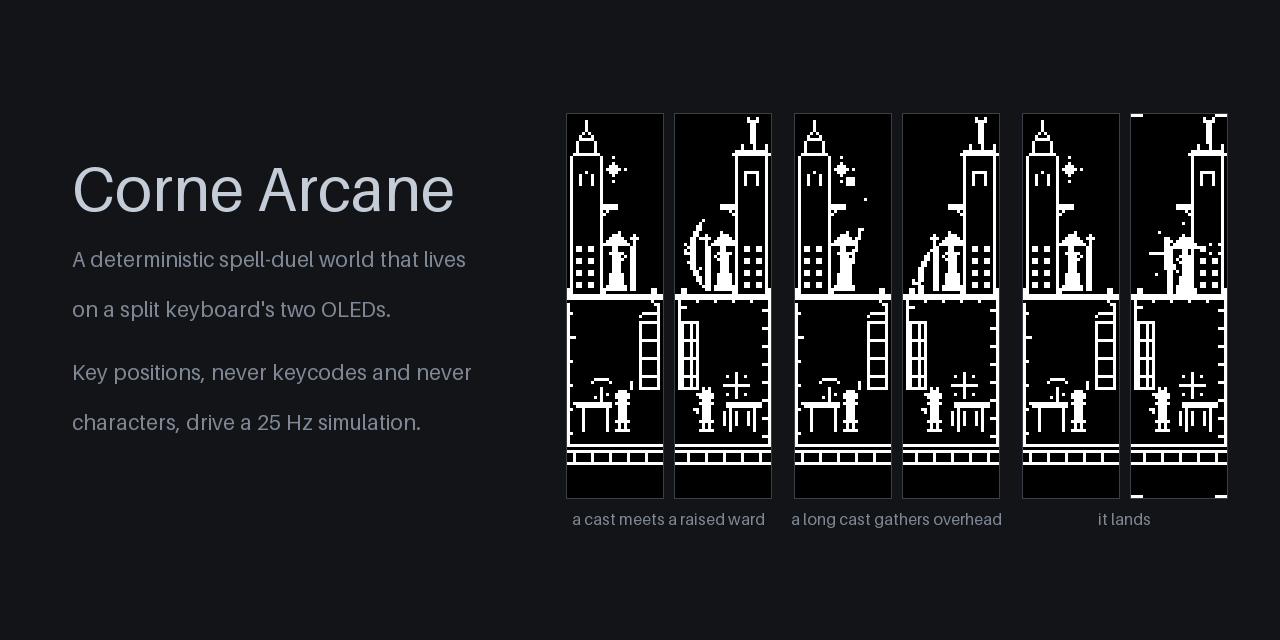
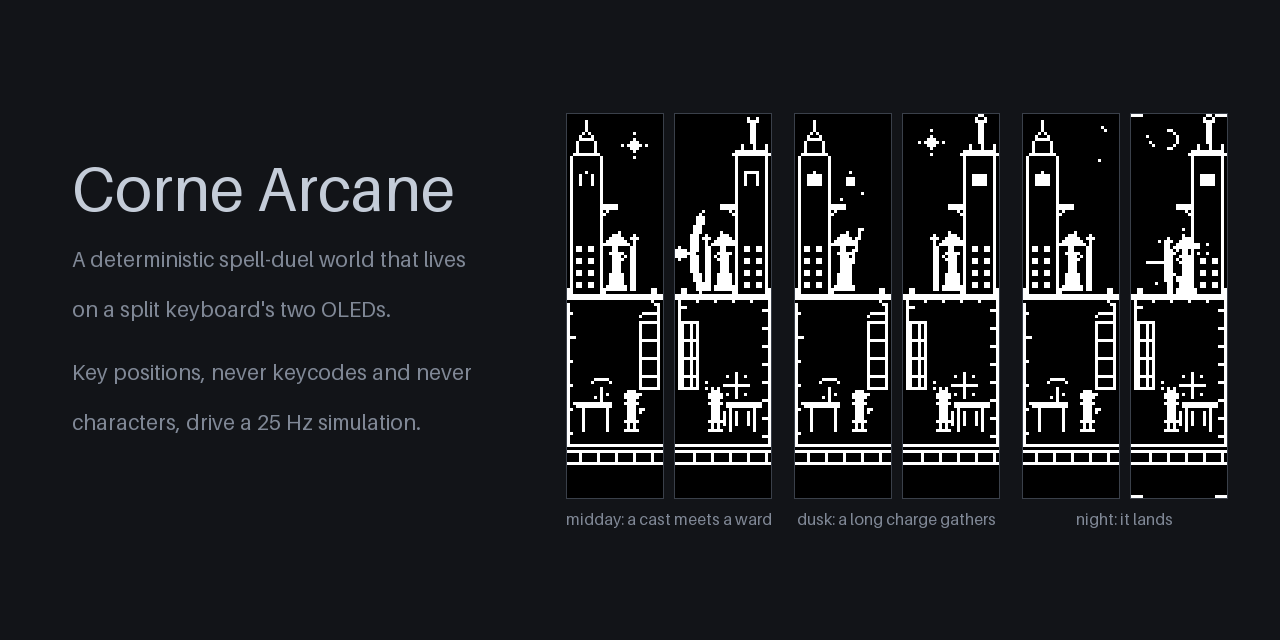
test(firmware): pin the combat states the catalog left uncovered
The visual catalog matrices each vary one family at a time, so several legal
worlds the renderer already draws had no scene at all. Thirty-seven cases close
the gaps that were reachable without new mechanics.

Health rendered at three pip counts of nine and only ever symmetric, which is
not enough to settle the health-pip question the two candidate images encode.
The ladder is now every legal count, stopping one short of full health because
the initialised world is already reviewed as the dawn idle frame, plus three
asymmetric pairs.

Wind-up had one frame per form and no progression, so the charge indicator's
range was unpinned. Both wizards acting at once had no scene at all, though one
spell per side is legal. Two fields at once had none either, though there are
exactly two slots. The lifecycle arc existed only on the left half, and a spell
arriving at a downed wizard drew an outcome nothing reviewed.

Every combat scene carried the default dawn sky, so the composition of a duel
over the celestial arc was pinned at one hour and one moment. Three scenes now
place a different duel state under each remaining phase, which is also what
lets the social preview show a duel at three points in its day.

Two findings came from the uniqueness gate rejecting scenes that looked
distinct but were not. Status intensity only changes what is drawn for BURNING;
FROZEN, DISRUPTED and MARKED are pixel identical at every level, so pinning
[…]

diff --git a/firmware/sim_test/visual_catalog.c b/firmware/sim_test/visual_catalog.c
@@ -17,7 +17,7 @@ typedef struct {
     char name[48];
     uint64_t hash;
 } visual_case_t;
-static visual_case_t cases[640];
+static visual_case_t cases[768];
 static size_t ncases;
 
 static uint64_t fnv1a(uint64_t hash, const void *data, size_t size) {
@@ -652,12 +652,28 @@ static void build_catalog(void) {
     cross.diag_overflow = 3u;
     add_render_case_diagnostics("cross_event_stale_diagnostics", &cross, 13u);
 
-    static const uint8_t hp_cases[] = {0, 1, 6};
-    for (size_t i = 0; i < sizeof hp_cases; i++) {
+    /* Every legal pip count, so a change to SIM_MAX_HP re-reviews the whole
+     * ladder instead of three samples of it. The health-pip decision cannot be
+     * made from a subset. */
+    for (uint8_t hp = 0; hp < SIM_MAX_HP; hp++) {
         char name[48];
         sim_init(&world, SIMF_AUTHORITATIVE, 0);
-        world.wiz[0].hp = world.wiz[1].hp = hp_cases[i];
-        snprintf(name, sizeof name, "health_%u", hp_cases[i]);
+        world.wiz[0].hp = world.wiz[1].hp = hp;
+        snprintf(name, sizeof name, "health_%u", hp);
+        add_case(name, &world, 0, 0);
+    }
+    /* Full health is the initialised world, already reviewed as
+     * sky_commons_dawn_idle_8hp, so the ladder stops one short of it. */
+    /* A duel is almost never symmetric, and the two bars are drawn
+     * independently onto mirrored geometry. */
+    static const uint8_t hp_pairs[][2] = {
+        {SIM_MAX_HP, 1u}, {6u, 3u}, {2u, (uint8_t)(SIM_MAX_HP - 1u)}};
+    for (size_t i = 0; i < sizeof hp_pairs / sizeof hp_pairs[0]; i++) {
+        char name[48];
+        sim_init(&world, SIMF_AUTHORITATIVE, 0);
+        world.wiz[0].hp = hp_pairs[i][0];
+        world.wiz[1].hp = hp_pairs[i][1];
+        snprintf(name, sizeof name, "health_%u_vs_%u", hp_pairs[i][0], hp_pairs[i][1]);
         add_case(name, &world, 0, 0);
     }
 
@@ -713,6 +729,220 @@ static void build_catalog(void) {
         world.wiz[0].status_intensity = 3;
         world.wiz[0].status_ticks = 125;
         add_case(names[status], &world, status, 0);
+        /* Intensity feeds wind-up length, so its presentation is load-bearing.
+         * Only BURNING draws it: FROZEN, DISRUPTED and MARKED are pixel
+         * identical at every level, which the uniqueness gate proves, so
+         * pinning them at more than one intensity would pin nothing. */
+        if (status != STATUS_BURNING)
+            continue;
+        for (uint8_t intensity = 1u; intensity < 3u; intensity++) {
+            char name[48];
+            sim_init(&world, SIMF_AUTHORITATIVE, 0);
+            world.wiz[0].status = status;
+            world.wiz[0].status_intensity = intensity;
+            world.wiz[0].status_ticks = (uint8_t)(75u + (intensity - 1u) * 25u);
+            snprintf(name, sizeof name, "%s_intensity_%u", names[status], intensity);
+            add_case(name, &world, status, 0);
+        }
+    }
+
+    /* ---- combat states the per-family matrices leave unpinned -------------
+     * Each case below is a legal world the renderer already supports and that
+     * nothing else in this catalog reaches. They are host-side review frames
+     * like every other scene here and cost no firmware budget. */
+
+    /* One long wind-up sampled across its span. windup_total drives the charge
+     * indicator, whose range the single frame per form never exercises. */
+    static const uint8_t windup_remaining[] = {36u, 24u, 12u, 1u};
+    for (size_t i = 0; i < sizeof windup_remaining; i++) {
+        char name[48];
+        sim_init(&world, SIMF_AUTHORITATIVE, 0);
+        world.wiz[SIM_SIDE_L].pose = POSE_CAST;
+        world.wiz[SIM_SIDE_L].inc_state = INC_WINDUP;
+        world.wiz[SIM_SIDE_L].windup_total = 40u;
+        world.wiz[SIM_SIDE_L].cast_windup = windup_remaining[i];
+        world.wiz[SIM_SIDE_L].cast_tier = SPELL_TIER_LONG;
+        world.wiz[SIM_SIDE_L].pending_desc = descriptor(SPELL_BEAM, 4u);
+        snprintf(name, sizeof name, "windup_progress_%zu", i);
+        add_case(name, &world, 5u, 0);
+    }
+
+    /* Both wizards acting at once. One spell per side is legal and the side
+     * matrix only ever exercises a single half. */
+    sim_init(&world, SIMF_AUTHORITATIVE, 0);
+    for (uint8_t side = 0; side < 2u; side++) {
+        world.wiz[side].pose = POSE_CAST;
+        world.wiz[side].inc_state = INC_WINDUP;
+        world.wiz[side].windup_total = 30u;
+        world.wiz[side].cast_windup = side ? 8u : 20u;
+        world.wiz[side].cast_tier = SPELL_TIER_MEDIUM;
+        world.wiz[side].pending_desc = descriptor(side ? SPELL_FIREBALL : SPELL_BEAM, 3u);
+    }
+    add_case("duel_both_winding", &world, 5u, 0);
+
+    sim_init(&world, SIMF_AUTHORITATIVE, 0);
+    world.spell[SIM_SIDE_L] = (sim_spell_t){
+        .active = 1, .progress = 96u, .dir = 4, .descriptor = descriptor(SPELL_PROJECTILE, 3u)};
+    world.spell[SIM_SIDE_R] = (sim_spell_t){
+        .active = 1, .progress = 160u, .dir = -4, .descriptor = descriptor(SPELL_FIREBALL, 3u)};
+    add_case("duel_both_in_flight", &world, 6u, 0);
+
+    sim_init(&world, SIMF_AUTHORITATIVE, 0);
+    for (uint8_t side = 0; side < 2u; side++) {
+        world.wiz[side].ward_strength = 3u;
+        world.wiz[side].ward_capacity = 3u;
+        world.wiz[side].ward_focus = 2u;
+        world.wiz[side].shield_ticks = SIM_SHIELD_TICKS;
+    }
+    world.spell[SIM_SIDE_L] = (sim_spell_t){
+        .active = 1, .progress = 232u, .dir = 4, .descriptor = descriptor(SPELL_PROJECTILE, 2u)};
+    world.spell[SIM_SIDE_R] = (sim_spell_t){
+        .active = 1, .progress = 24u, .dir = -4, .descriptor = descriptor(SPELL_PROJECTILE, 2u)};
+    add_case("duel_both_warded", &world, 6u, 0);
+
+    /* Two fields at once. There are exactly two slots and every field_* case
+     * fills one, so slot interaction and combined silhouettes are unpinned. */
+    static const struct {
+        const char *name;
+        uint8_t a_kind;
+        uint8_t a_zone;
+        uint8_t b_kind;
+        uint8_t b_zone;
+    } field_pairs[] = {
+        {"rune_wall", FIELD_RUNE, SIM_RESIDUE_MID_L, FIELD_WALL, SIM_RESIDUE_MID_R},
+        {"vortex_trap", FIELD_VORTEX, SIM_RESIDUE_DOORSTEP_L, FIELD_TRAP, SIM_RESIDUE_MID_R},
+        {"singularity_familiar", FIELD_SINGULARITY, SIM_RESIDUE_MID_L, FIELD_FAMILIAR,
+         SIM_RESIDUE_DOORSTEP_R},
+    };
+    for (size_t i = 0; i < sizeof field_pairs / sizeof field_pairs[0]; i++) {
+        char name[48];
+        sim_init(&world, SIMF_AUTHORITATIVE, 0);
+        duel_render_t pair = {0};
+        duel_render_from_world(&pair, &world);
+        pair.seed = 0x35u;
+        pair.civic_phase = 21u;
+        pair.field[0] = (uint8_t)(field_pairs[i].a_kind | (field_pairs[i].a_zone << 3) | (2u << 5));
+        pair.field[1] =
+            (uint8_t)(field_pairs[i].b_kind | (field_pairs[i].b_zone << 3) | (1u << 5) | 0x80u);
+        snprintf(name, sizeof name, "field_pair_%s", field_pairs[i].name);
+        add_render_case(name, &pair, 9u);
+    }
+
+    /* The lifecycle arc mirrored onto the right half, which is drawn from
+     * mirrored geometry that the left-half scenarios never exercise. */
+    static const struct {
+        const char *name;
+        uint8_t life;
+        uint8_t ticks;
+    } right_life[] = {
+        {"collapse", LIFE_COLLAPSE, SIM_COLLAPSE_TICKS / 2u},
+        {"downed", LIFE_DOWNED, SIM_DOWNED_TICKS / 2u},
+        {"medic", LIFE_MEDIC, SIM_MEDIC_TICKS / 2u},
+        {"replace", LIFE_REPLACE, SIM_REPLACE_TICKS / 2u},
+    };
+    for (size_t i = 0; i < sizeof right_life / sizeof right_life[0]; i++) {
+        char name[48];
+        sim_init(&world, SIMF_AUTHORITATIVE, 0);
+        world.wiz[SIM_SIDE_R].hp = 0;
+        world.wiz[SIM_SIDE_R].life = right_life[i].life;
+        world.wiz[SIM_SIDE_R].life_ticks = right_life[i].ticks;
+        snprintf(name, sizeof name, "life_right_%s", right_life[i].name);
+        add_case(name, &world, 3u, 0);
+    }
+
+    /* A spell arriving at a wizard who is already down. FX_FIZZLE_L names the
+     * left defender, and no catalog case drew that outcome. */
+    sim_init(&world, SIMF_AUTHORITATIVE, 0);
+    world.wiz[SIM_SIDE_L].hp = 0;
+    world.wiz[SIM_SIDE_L].life = LIFE_DOWNED;
+    world.wiz[SIM_SIDE_L].life_ticks = SIM_DOWNED_TICKS / 2u;
+    add_case("life_fizzle_at_downed", &world, 4u, FX_FIZZLE_L);
+
+    /* Every roster variant, which is also what rotates doctrine affinity. The
+     * variant is cosmetic on an active wizard; during the replacement walk-in
+     * the silhouette is the same for half of them, so it is pinned here on the
+     * active roster where it is actually distinguishable. */
+    for (uint8_t variant = 0; variant < SIM_ROSTER_N; variant++) {
+        char name[48];
+        sim_init(&world, SIMF_AUTHORITATIVE, 0);
+        /* Both halves carry a different variant, so one frame shows two of the
+         * four silhouettes and variant 0 does not restate the default world. */
+        world.wiz[SIM_SIDE_L].variant = variant;
+        world.wiz[SIM_SIDE_R].variant = (uint8_t)((variant + 1u) % SIM_ROSTER_N);
+        snprintf(name, sizeof name, "roster_variant_%u", variant);
+        add_case(name, &world, 3u, 0);
+    }
+
+    /* Combat under the other three sky phases, one duel state per hour. Every
+     * other duel scene carries the default dawn secondary byte, so the
+     * renderer's composition of a duel over the celestial arc was pinned at a
+     * single hour and a single moment. */
+    static const char *hour_name[] = {"dawn", "day", "dusk", "night"};
+    for (uint8_t phase = DUEL_SKY_DAY; phase <= DUEL_SKY_NIGHT; phase++) {
+        char name[48];
+        sim_init(&world, SIMF_AUTHORITATIVE, 0);
+        if (phase == DUEL_SKY_DAY) {
+            /* A cast crossing toward a raised ward. */
+            world.wiz[SIM_SIDE_R].ward_strength = 3u;
+            world.wiz[SIM_SIDE_R].ward_capacity = 3u;
+            world.wiz[SIM_SIDE_R].ward_focus = 2u;
+            world.wiz[SIM_SIDE_R].shield_ticks = SIM_SHIELD_TICKS;
+            world.spell[SIM_SIDE_L] = (sim_spell_t){.active = 1,
+                                                    .progress = 168u,
+                                                    .dir = 4,
+                                                    .descriptor = descriptor(SPELL_PROJECTILE, 3u)};
+        } else if (phase == DUEL_SKY_DUSK) {
+            /* A long charge gathering before release. */
+            world.wiz[SIM_SIDE_L].pose = POSE_CAST;
+            world.wiz[SIM_SIDE_L].inc_state = INC_WINDUP;
+            world.wiz[SIM_SIDE_L].windup_total = 40u;
+            world.wiz[SIM_SIDE_L].cast_windup = 14u;
+            world.wiz[SIM_SIDE_L].cast_tier = SPELL_TIER_SATURATED;
+            world.wiz[SIM_SIDE_L].pending_desc = descriptor(SPELL_FIREBALL, 4u);
+        } else {
+            /* The same duel one beat later, landing. */
+            world.wiz[SIM_SIDE_R].hp = SIM_MAX_HP - 2u;
+        }
+        duel_render_t hour = {0};
+        duel_render_from_world(&hour, &world);
+        hour.seed = 0x5au;
+        hour.civic_phase = 19u;
+        hour.civic = DUEL_CIVIC_PACK(DUEL_CIVIC_FLOOR_COMMONS, DUEL_CIVIC_MODE_NORMAL, 0);
+        hour.secondary = DUEL_SECONDARY_SKY_PACK(0, phase);
+        if (phase == DUEL_SKY_NIGHT) {
+            hour.flash_kind = FX_IMPACT_R;
+            hour.flash_frames = 10u;
+            hour.flash_spell_kind = DUEL_KIND_WITH_TIER(
+                DUEL_KIND_PACK(ELEM_EMBER, MOD_NONE, PAY_IMPACT), SPELL_TIER_LONG);
+        }
+        snprintf(name, sizeof name, "combat_sky_%s", hour_name[phase]);
+        add_render_case(name, &hour, 7u);
+    }
+
+    /* Residue meeting an arriving spell of its own element, which is the one
+     * path to the combine outcome. */
+    sim_init(&world, SIMF_AUTHORITATIVE, 0);
+    world.residue[SIM_RESIDUE_MID_R].element = ELEM_EMBER;
+    world.residue[SIM_RESIDUE_MID_R].intensity = SIM_RESIDUE_MAX_INTENSITY;
+    world.spell[SIM_SIDE_L] = (sim_spell_t){
+        .active = 1, .progress = 168u, .dir = 4, .descriptor = descriptor(SPELL_SINGULARITY, 3u)};
+    add_case("residue_bloom_detonation", &world, 6u, FX_COMBINE);
+
+    /* Each ward tier meeting an incoming spell. The standalone tiers above
+     * show the ward with nothing arriving at it. */
+    for (uint8_t tier = 1; tier <= 4; tier++) {
+        char name[48];
+        sim_init(&world, SIMF_AUTHORITATIVE, 0);
+        world.wiz[SIM_SIDE_R].ward_strength = tier;
+        world.wiz[SIM_SIDE_R].ward_capacity = tier;
+        world.wiz[SIM_SIDE_R].ward_focus = 2u;
+        world.wiz[SIM_SIDE_R].shield_ticks = SIM_SHIELD_TICKS;
+        world.spell[SIM_SIDE_L] = (sim_spell_t){.active = 1,
+                                                .progress = 228u,
+                                                .dir = 4,
+                                                .descriptor = descriptor(SPELL_PROJECTILE, tier)};
+        snprintf(name, sizeof name, "ward_meets_spell_tier_%u", tier);
+        add_case(name, &world, tier, FX_DEFLECT_R);
     }
 
     /* Stances. MEDITATE/STUDY restage onto the balcony (MEDITATE's

diff --git a/tools/figures.py b/tools/figures.py
@@ -179,9 +179,9 @@ def fields_animation(frames, out_dir):
 # panels are one world at three points in its day: the sun high, the right
 # wizard mid-cast, and the moon up over a different district.
 SOCIAL = [
-    ("scenario_deflect", "a cast meets a raised ward"),
-    ("scenario_pose-cast", "a long cast gathers overhead"),
-    ("scenario_impact", "it lands"),
+    ("combat_sky_day", "midday: a cast meets a ward"),
+    ("combat_sky_dusk", "dusk: a long charge gathers"),
+    ("combat_sky_night", "night: it lands"),
 ]
 SOCIAL_TEXT = [
     ("Corne Arcane", 62, INK, 0),
